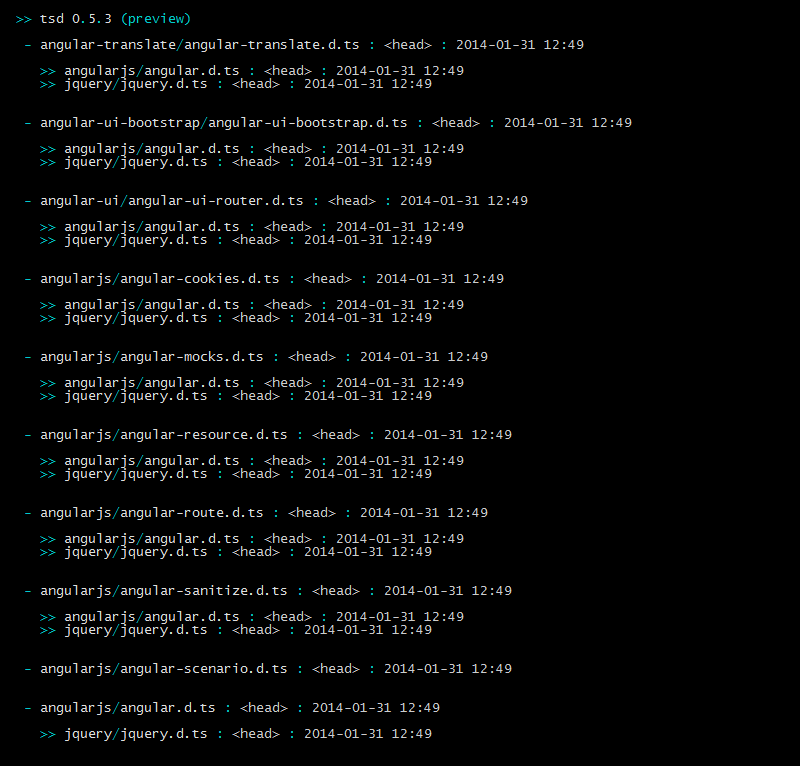
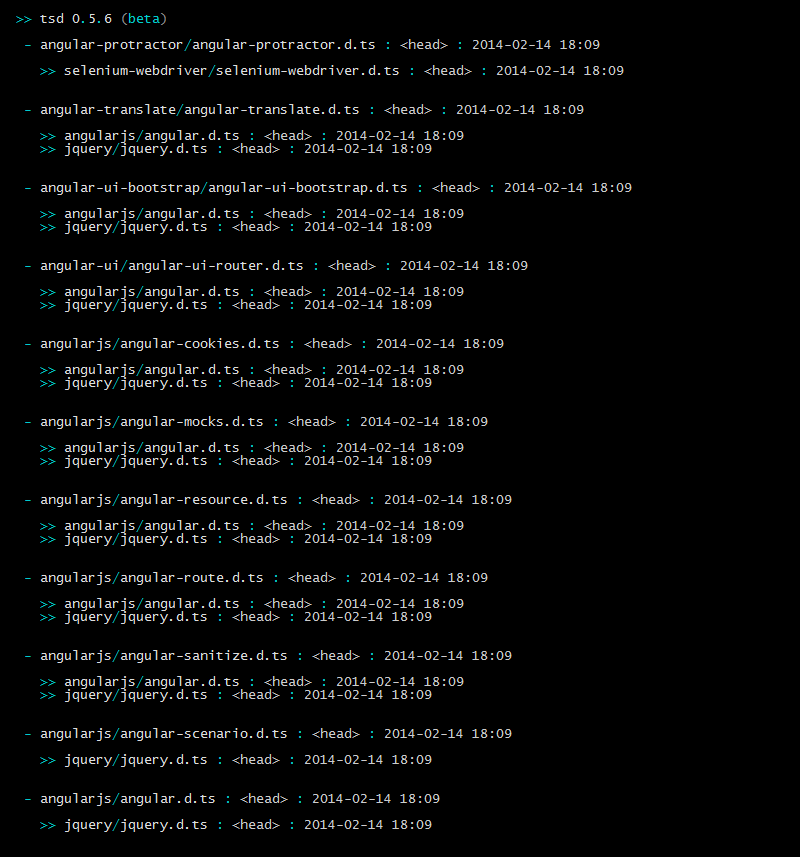
moving to v0.5.6

Changed region(s): [[0.0312, 0.0, 0.7812, 0.9909]]

diff --git a/media/capture/angular.html b/media/capture/angular.html
@@ -56,53 +56,59 @@
 <body>
 <div class="content">
     <span class="cli"></span><br/>
-<span class="cli"><span class="accent">&gt;&gt; </span>tsd 0<span class="accent">.</span>5<span class="accent">.</span>3<span class="plain"> </span><span class="accent">(preview)</span></span><br/>
+<span class="cli"><span class="accent">&gt;&gt; </span>tsd 0<span class="accent">.</span>5<span class="accent">.</span>6<span class="plain"> </span><span class="muted">(</span><span class="accent">beta</span><span class="muted">)</span></span><br/>
 <span class="cli"></span><br/>
-<span class="cli"><span class="accent"> - </span>angular-translate<span class="accent">/</span>angular-translate.d.ts<span class="accent"> : </span><span class="plain">&lt;head&gt;</span><span class="accent"> : </span><span class="plain">2014-01-31 12:49</span></span><br/>
+<span class="cli"><span class="accent"> - </span>angular-protractor<span class="accent">/</span>angular-protractor.d.ts<span class="accent"> : </span><span class="plain">&lt;head&gt;</span><span class="accent"> : </span><span class="plain">2014-02-14 18:09</span></span><br/>
 <span class="cli"></span><br/>
-<span class="cli">   <span class="accent">&gt;&gt; </span>angularjs<span class="accent">/</span>angular.d.ts<span class="accent"> : </span><span class="plain">&lt;head&gt;</span><span class="accent"> : </span><span class="plain">2014-01-31 12:49</span></span><br/>
-<span class="cli">   <span class="accent">&gt;&gt; </span>jquery<span class="accent">/</span>jquery.d.ts<span class="accent"> : </span><span class="plain">&lt;head&gt;</span><span class="accent"> : </span><span class="plain">2014-01-31 12:49</span></span><br/>
+<span class="cli">   <span class="accent">&gt;&gt; </span>selenium-webdriver<span class="accent">/</span>selenium-webdriver.d.ts<span class="accent"> : </span><span class="plain">&lt;head&gt;</span><span class="accent"> : </span><span class="plain">2014-02-14 18:09</span></span><br/>
 <span class="cli"><span class="plain"></span><br/>
-<span class="cli"></span><span class="accent"> - </span>angular-ui-bootstrap<span class="accent">/</span>angular-ui-bootstrap.d.ts<span class="accent"> : </span><span class="plain">&lt;head&gt;</span><span class="accent"> : </span><span class="plain">2014-01-31 12:49</span></span><br/>
+<span class="cli"></span><span class="accent"> - </span>angular-translate<span class="accent">/</span>angular-translate.d.ts<span class="accent"> : </span><span class="plain">&lt;head&gt;</span><span class="accent"> : </span><span class="plain">2014-02-14 18:09</span></span><br/>
 <span class="cli"></span><br/>
-<span class="cli">   <span class="accent">&gt;&gt; </span>angularjs<span class="accent">/</span>angular.d.ts<span class="accent"> : </span><span class="plain">&lt;head&gt;</span><span class="accent"> : </span><span class="plain">2014-01-31 12:49</span></span><br/>
-<span class="cli">   <span class="accent">&gt;&gt; </span>jquery<span class="accent">/</span>jquery.d.ts<span class="accent"> : </span><span class="plain">&lt;head&gt;</span><span class="accent"> : </span><span class="plain">2014-01-31 12:49</span></span><br/>
+<span class="cli">   <span class="accent">&gt;&gt; </span>angularjs<span class="accent">/</span>angular.d.ts<span class="accent"> : </span><span class="plain">&lt;head&gt;</span><span class="accent"> : </span><span class="plain">2014-02-14 18:09</span></span><br/>
+<span class="cli">   <span class="accent">&gt;&gt; </span>jquery<span class="accent">/</span>jquery.d.ts<span class="accent"> : </span><span class="plain">&lt;head&gt;</span><span class="accent"> : </span><span class="plain">2014-02-14 18:09</span></span><br/>
 <span class="cli"><span class="plain"></span><br/>
-<span class="cli"></span><span class="accent"> - </span>angular-ui<span class="accent">/</span>angular-ui-router.d.ts<span class="accent"> : </span><span class="plain">&lt;head&gt;</span><span class="accent"> : </span><span class="plain">2014-01-31 12:49</span></span><br/>
+<span class="cli"></span><span class="accent"> - </span>angular-ui-bootstrap<span class="accent">/</span>angular-ui-bootstrap.d.ts<span class="accent"> : </span><span class="plain">&lt;head&gt;</span><span class="accent"> : </span><span class="plain">2014-02-14 18:09</span></span><br/>
 <span class="cli"></span><br/>
-<span class="cli">   <span class="accent">&gt;&gt; </span>angularjs<span class="accent">/</span>angular.d.ts<span class="accent"> : </span><span class="plain">&lt;head&gt;</span><span class="accent"> : </span><span class="plain">2014-01-31 12:49</span></span><br/>
-<span class="cli">   <span class="accent">&gt;&gt; </span>jquery<span class="accent">/</span>jquery.d.ts<span class="accent"> : </span><span class="plain">&lt;head&gt;</span><span class="accent"> : </span><span class="plain">2014-01-31 12:49</span></span><br/>
+<span class="cli">   <span class="accent">&gt;&gt; </span>angularjs<span class="accent">/</span>angular.d.ts<span class="accent"> : </span><span class="plain">&lt;head&gt;</span><span class="accent"> : </span><span class="plain">2014-02-14 18:09</span></span><br/>
+<span class="cli">   <span class="accent">&gt;&gt; </span>jquery<span class="accent">/</span>jquery.d.ts<span class="accent"> : </span><span class="plain">&lt;head&gt;</span><span class="accent"> : </span><span class="plain">2014-02-14 18:09</span></span><br/>
 <span class="cli"><span class="plain"></span><br/>
-<span class="cli"></span><span class="accent"> - </span>angularjs<span class="accent">/</span>angular-cookies.d.ts<span class="accent"> : </span><span class="plain">&lt;head&gt;</span><span class="accent"> : </span><span class="plain">2014-01-31 12:49</span></span><br/>
+<span class="cli"></span><span class="accent"> - </span>angular-ui<span class="accent">/</span>angular-ui-router.d.ts<span class="accent"> : </span><span class="plain">&lt;head&gt;</span><span class="accent"> : </span><span class="plain">2014-02-14 18:09</span></span><br/>
 <span class="cli"></span><br/>
-<span class="cli">   <span class="accent">&gt;&gt; </span>angularjs<span class="accent">/</span>angular.d.ts<span class="accent"> : </span><span class="plain">&lt;head&gt;</span><span class="accent"> : </span><span class="plain">2014-01-31 12:49</span></span><br/>
-<span class="cli">   <span class="accent">&gt;&gt; </span>jquery<span class="accent">/</span>jquery.d.ts<span class="accent"> : </span><span class="plain">&lt;head&gt;</span><span class="accent"> : </span><span class="plain">2014-01-31 12:49</span></span><br/>
+<span class="cli">   <span class="accent">&gt;&gt; </span>angularjs<span class="accent">/</span>angular.d.ts<span class="accent"> : </span><span class="plain">&lt;head&gt;</span><span class="accent"> : </span><span class="plain">2014-02-14 18:09</span></span><br/>
+<span class="cli">   <span class="accent">&gt;&gt; </span>jquery<span class="accent">/</span>jquery.d.ts<span class="accent"> : </span><span class="plain">&lt;head&gt;</span><span class="accent"> : </span><span class="plain">2014-02-14 18:09</span></span><br/>
 <span class="cli"><span class="plain"></span><br/>
-<span class="cli"></span><span class="accent"> - </span>angularjs<span class="accent">/</span>angular-mocks.d.ts<span class="accent"> : </span><span class="plain">&lt;head&gt;</span><span class="accent"> : </span><span class="plain">2014-01-31 12:49</span></span><br/>
+<span class="cli"></span><span class="accent"> - </span>angularjs<span class="accent">/</span>angular-cookies.d.ts<span class="accent"> : </span><span class="plain">&lt;head&gt;</span><span class="accent"> : </span><span class="plain">2014-02-14 18:09</span></span><br/>
 <span class="cli"></span><br/>
-<span class="cli">   <span class="accent">&gt;&gt; </span>angularjs<span class="accent">/</span>angular.d.ts<span class="accent"> : </span><span class="plain">&lt;head&gt;</span><span class="accent"> : </span><span class="plain">2014-01-31 12:49</span></span><br/>
-<span class="cli">   <span class="accent">&gt;&gt; </span>jquery<span class="accent">/</span>jquery.d.ts<span class="accent"> : </span><span class="plain">&lt;head&gt;</span><span class="accent"> : </span><span class="plain">2014-01-31 12:49</span></span><br/>
+<span class="cli">   <span class="accent">&gt;&gt; </span>angularjs<span class="accent">/</span>angular.d.ts<span class="accent"> : </span><span class="plain">&lt;head&gt;</span><span class="accent"> : </span><span class="plain">2014-02-14 18:09</span></span><br/>
+<span class="cli">   <span class="accent">&gt;&gt; </span>jquery<span class="accent">/</span>jquery.d.ts<span class="accent"> : </span><span class="plain">&lt;head&gt;</span><span class="accent"> : </span><span class="plain">2014-02-14 18:09</span></span><br/>
 <span class="cli"><span class="plain"></span><br/>
-<span class="cli"></span><span class="accent"> - </span>angularjs<span class="accent">/</span>angular-resource.d.ts<span class="accent"> : </span><span class="plain">&lt;head&gt;</span><span class="accent"> : </span><span class="plain">2014-01-31 12:49</span></span><br/>
+<span class="cli"></span><span class="accent"> - </span>angularjs<span class="accent">/</span>angular-mocks.d.ts<span class="accent"> : </span><span class="plain">&lt;head&gt;</span><span class="accent"> : </span><span class="plain">2014-02-14 18:09</span></span><br/>
 <span class="cli"></span><br/>
-<span class="cli">   <span class="accent">&gt;&gt; </span>angularjs<span class="accent">/</span>angular.d.ts<span class="accent"> : </span><span class="plain">&lt;head&gt;</span><span class="accent"> : </span><span class="plain">2014-01-31 12:49</span></span><br/>
-<span class="cli">   <span class="accent">&gt;&gt; </span>jquery<span class="accent">/</span>jquery.d.ts<span class="accent"> : </span><span class="plain">&lt;head&gt;</span><span class="accent"> : </span><span class="plain">2014-01-31 12:49</span></span><br/>
+<span class="cli">   <span class="accent">&gt;&gt; </span>angularjs<span class="accent">/</span>angular.d.ts<span class="accent"> : </span><span class="plain">&lt;head&gt;</span><span class="accent"> : </span><span class="plain">2014-02-14 18:09</span></span><br/>
+<span class="cli">   <span class="accent">&gt;&gt; </span>jquery<span class="accent">/</span>jquery.d.ts<span class="accent"> : </span><span class="plain">&lt;head&gt;</span><span class="accent"> : </span><span class="plain">2014-02-14 18:09</span></span><br/>
 <span class="cli"><span class="plain"></span><br/>
-<span class="cli"></span><span class="accent"> - </span>angularjs<span class="accent">/</span>angular-route.d.ts<span class="accent"> : </span><span class="plain">&lt;head&gt;</span><span class="accent"> : </span><span class="plain">2014-01-31 12:49</span></span><br/>
+<span class="cli"></span><span class="accent"> - </span>angularjs<span class="accent">/</span>angular-resource.d.ts<span class="accent"> : </span><span class="plain">&lt;head&gt;</span><span class="accent"> : </span><span class="plain">2014-02-14 18:09</span></span><br/>
 <span class="cli"></span><br/>
-<span class="cli">   <span class="accent">&gt;&gt; </span>angularjs<span class="accent">/</span>angular.d.ts<span class="accent"> : </span><span class="plain">&lt;head&gt;</span><span class="accent"> : </span><span class="plain">2014-01-31 12:49</span></span><br/>
-<span class="cli">   <span class="accent">&gt;&gt; </span>jquery<span class="accent">/</span>jquery.d.ts<span class="accent"> : </span><span class="plain">&lt;head&gt;</span><span class="accent"> : </span><span class="plain">2014-01-31 12:49</span></span><br/>
+<span class="cli">   <span class="accent">&gt;&gt; </span>angularjs<span class="accent">/</span>angular.d.ts<span class="accent"> : </span><span class="plain">&lt;head&gt;</span><span class="accent"> : </span><span class="plain">2014-02-14 18:09</span></span><br/>
+<span class="cli">   <span class="accent">&gt;&gt; </span>jquery<span class="accent">/</span>jquery.d.ts<span class="accent"> : </span><span class="plain">&lt;head&gt;</span><span class="accent"> : </span><span class="plain">2014-02-14 18:09</span></span><br/>
 <span class="cli"><span class="plain"></span><br/>
-<span class="cli"></span><span class="accent"> - </span>angularjs<span class="accent">/</span>angular-sanitize.d.ts<span class="accent"> : </span><span class="plain">&lt;head&gt;</span><span class="accent"> : </span><span class="plain">2014-01-31 12:49</span></span><br/>
+<span class="cli"></span><span class="accent"> - </span>angularjs<span class="accent">/</span>angular-route.d.ts<span class="accent"> : </span><span class="plain">&lt;head&gt;</span><span class="accent"> : </span><span class="plain">2014-02-14 18:09</span></span><br/>
 <span class="cli"></span><br/>
-<span class="cli">   <span class="accent">&gt;&gt; </span>angularjs<span class="accent">/</span>angular.d.ts<span class="accent"> : </span><span class="plain">&lt;head&gt;</span><span class="accent"> : </span><span class="plain">2014-01-31 12:49</span></span><br/>
-<span class="cli">   <span class="accent">&gt;&gt; </span>jquery<span class="accent">/</span>jquery.d.ts<span class="accent"> : </span><span class="plain">&lt;head&gt;</span><span class="accent"> : </span><span class="plain">2014-01-31 12:49</span></span><br/>
+<span class="cli">   <span class="accent">&gt;&gt; </span>angularjs<span class="accent">/</span>angular.d.ts<span class="accent"> : </span><span class="plain">&lt;head&gt;</span><span class="accent"> : </span><span class="plain">2014-02-14 18:09</span></span><br/>
+<span class="cli">   <span class="accent">&gt;&gt; </span>jquery<span class="accent">/</span>jquery.d.ts<span class="accent"> : </span><span class="plain">&lt;head&gt;</span><span class="accent"> : </span><span class="plain">2014-02-14 18:09</span></span><br/>
 <span class="cli"><span class="plain"></span><br/>
-<span class="cli"></span><span class="accent"> - </span>angularjs<span class="accent">/</span>angular-scenario.d.ts<span class="accent"> : </span><span class="plain">&lt;head&gt;</span><span class="accent"> : </span><span class="plain">2014-01-31 12:49</span></span><br/>
-<span class="cli"><span class="plain"></span><br/>
-<span class="cli"></span><span class="accent"> - </span>angularjs<span class="accent">/</span>angular.d.ts<span class="accent"> : </span><span class="plain">&lt;head&gt;</span><span class="accent"> : </span><span class="plain">2014-01-31 12:49</span></span><br/>
+<span class="cli"></span><span class="accent"> - </span>angularjs<span class="accent">/</span>angular-sanitize.d.ts<span class="accent"> : </span><span class="plain">&lt;head&gt;</span><span class="accent"> : </span><span class="plain">2014-02-14 18:09</span></span><br/>
 <span class="cli"></span><br/>
-<span class="cli">   <span class="accent">&gt;&gt; </span>jquery<span class="accent">/</span>jquery.d.ts<span class="accent"> : </span><span class="plain">&lt;head&gt;</span><span class="accent"> : </span><span class="plain">2014-01-31 12:49</span></span><br/>
+<span class="cli">   <span class="accent">&gt;&gt; </span>angularjs<span class="accent">/</span>angular.d.ts<span class="accent"> : </span><span class="plain">&lt;head&gt;</span><span class="accent"> : </span><span class="plain">2014-02-14 18:09</span></span><br/>
+<span class="cli">   <span class="accent">&gt;&gt; </span>jquery<span class="accent">/</span>jquery.d.ts<span class="accent"> : </span><span class="plain">&lt;head&gt;</span><span class="accent"> : </span><span class="plain">2014-02-14 18:09</span></span><br/>
+<span class="cli"><span class="plain"></span><br/>
+<span class="cli"></span><span class="accent"> - </span>angularjs<span class="accent">/</span>angular-scenario.d.ts<span class="accent"> : </span><span class="plain">&lt;head&gt;</span><span class="accent"> : </span><span class="plain">2014-02-14 18:09</span></span><br/>
+<span class="cli"></span><br/>
+<span class="cli">   <span class="accent">&gt;&gt; </span>jquery<span class="accent">/</span>jquery.d.ts<span class="accent"> : </span><span class="plain">&lt;head&gt;</span><span class="accent"> : </span><span class="plain">2014-02-14 18:09</span></span><br/>
+<span class="cli"><span class="plain"></span><br/>
+<span class="cli"></span><span class="accent"> - </span>angularjs<span class="accent">/</span>angular.d.ts<span class="accent"> : </span><span class="plain">&lt;head&gt;</span><span class="accent"> : </span><span class="plain">2014-02-14 18:09</span></span><br/>
+<span class="cli"></span><br/>
+<span class="cli">   <span class="accent">&gt;&gt; </span>jquery<span class="accent">/</span>jquery.d.ts<span class="accent"> : </span><span class="plain">&lt;head&gt;</span><span class="accent"> : </span><span class="plain">2014-02-14 18:09</span></span><br/>
 
 
 </div>

diff --git a/media/capture/help.html b/media/capture/help.html
@@ -56,11 +56,11 @@
 <body>
 <div class="content">
     <span class="cli"></span><br/>
-<span class="cli"><span class="accent">&gt;&gt; </span>tsd 0<span class="accent">.</span>5<span class="accent">.</span>3<span class="plain"> </span><span class="accent">(preview)</span></span><br/>
+<span class="cli"><span class="accent">&gt;&gt; </span>tsd 0<span class="accent">.</span>5<span class="accent">.</span>6<span class="plain"> </span><span class="muted">(</span><span class="accent">beta</span><span class="muted">)</span></span><br/>
 <span class="cli"></span><br/>
 <span class="cli"><span class="accent">&gt;&gt; </span><span class="plain">main</span></span><br/>
 <span class="cli">   </span><br/>
-<span class="cli">   <span class="plain">query</span> <span class="muted">&lt;</span><span class="plain">pattern</span><span class="muted">&gt;</span>            search definitions using globbing pattern</span><br/>
+<span class="cli">   <span class="plain">query</span> <span class="muted">&lt;</span><span class="plain">...pattern</span><span class="muted">&gt;</span>         search definitions using one or more globbing patterns</span><br/>
 <span class="cli"></span><br/>
 <span class="cli">      <span class="accent"> $ </span>tsd query d3 --info --history      <span class="accent"> : </span>view d3 info & history</span><br/>
 <span class="cli">      <span class="accent"> $ </span>tsd query mocha --action install   <span class="accent"> : </span>install mocha</span><br/>
@@ -117,7 +117,7 @@
 <span class="cli">                                 <span class="accent"> : </span>partially implemented</span><br/>
 <span class="cli">    <span class="accent">--</span><span class="plain">dev</span>                     <span class="accent"> &gt; </span><span class="plain">development mode</span> <span class="accent">(</span><span class="plain">flag</span><span class="accent">)</span></span><br/>
 <span class="cli">    <span class="accent">--</span><span class="plain">services</span>                <span class="accent"> &gt; </span><span class="plain">allow usage-tracker, TSD updates etc</span> <span class="accent">(</span><span class="plain">flag</span><span class="plain">, default: true</span><span class="accent">)</span></span><br/>
-<span class="cli">    <span class="accent">--</span><span class="plain">style</span> <span class="muted">&lt;</span><span class="plain">name</span><span class="muted">&gt;</span>            <span class="accent"> &gt; </span><span class="plain">specify CLI style</span> <span class="accent">(</span><span class="plain">string</span><span class="plain">, default: ansi</span><span class="accent">)</span></span><br/>
+<span class="cli">    <span class="accent">--</span><span class="plain">style</span> <span class="muted">&lt;</span><span class="plain">name</span><span class="muted">&gt;</span>            <span class="accent"> &gt; </span><span class="plain">specify CLI style</span> <span class="accent">(</span><span class="plain">string</span><span class="plain">, default: no</span><span class="accent">)</span></span><br/>
 <span class="cli">                                 <span class="accent"> [ </span><span class="plain">no, plain, ansi, html, css, dev</span><span class="accent"> ]</span></span><br/>
 <span class="cli">    <span class="accent">--</span><span class="plain">verbose</span>                 <span class="accent"> &gt; </span><span class="plain">verbose output</span> <span class="accent">(</span><span class="plain">flag</span><span class="accent">)</span></span><br/>
 

diff --git a/media/capture/async.html b/media/capture/async.html
@@ -56,10 +56,9 @@
 <body>
 <div class="content">
     <span class="cli"></span><br/>
-<span class="cli"><span class="accent">&gt;&gt; </span>tsd 0<span class="accent">.</span>5<span class="accent">.</span>3<span class="plain"> </span><span class="accent">(preview)</span></span><br/>
-<span class="cli">   <span class="accent"> &gt; </span><span class="plain">rate-limit</span><span class="plain"> </span><span class="plain">remaining </span><span class="accent">57</span><span class="plain"> / </span><span class="accent">60</span></span><br/>
+<span class="cli"><span class="accent">&gt;&gt; </span>tsd 0<span class="accent">.</span>5<span class="accent">.</span>6<span class="plain"> </span><span class="muted">(</span><span class="accent">beta</span><span class="muted">)</span></span><br/>
 <span class="cli"></span><br/>
-<span class="cli"><span class="accent"> - </span>async<span class="accent">/</span>async.d.ts<span class="accent"> : </span><span class="plain">&lt;head&gt;</span><span class="accent"> : </span><span class="plain">2014-01-31 12:49</span></span><br/>
+<span class="cli"><span class="accent"> - </span>async<span class="accent">/</span>async.d.ts<span class="accent"> : </span><span class="plain">&lt;head&gt;</span><span class="accent"> : </span><span class="plain">2014-02-14 18:09</span></span><br/>
 <span class="cli"></span><br/>
 <span class="cli">   Async 0<span class="accent">.</span>1<span class="accent">.</span>23<span class="plain"> </span><span class="muted">&lt;</span>github.com<span class="accent">/</span>caolan<span class="accent">/</span>async<span class="muted">&gt;</span></span><br/>
 <span class="cli"></span><br/>
